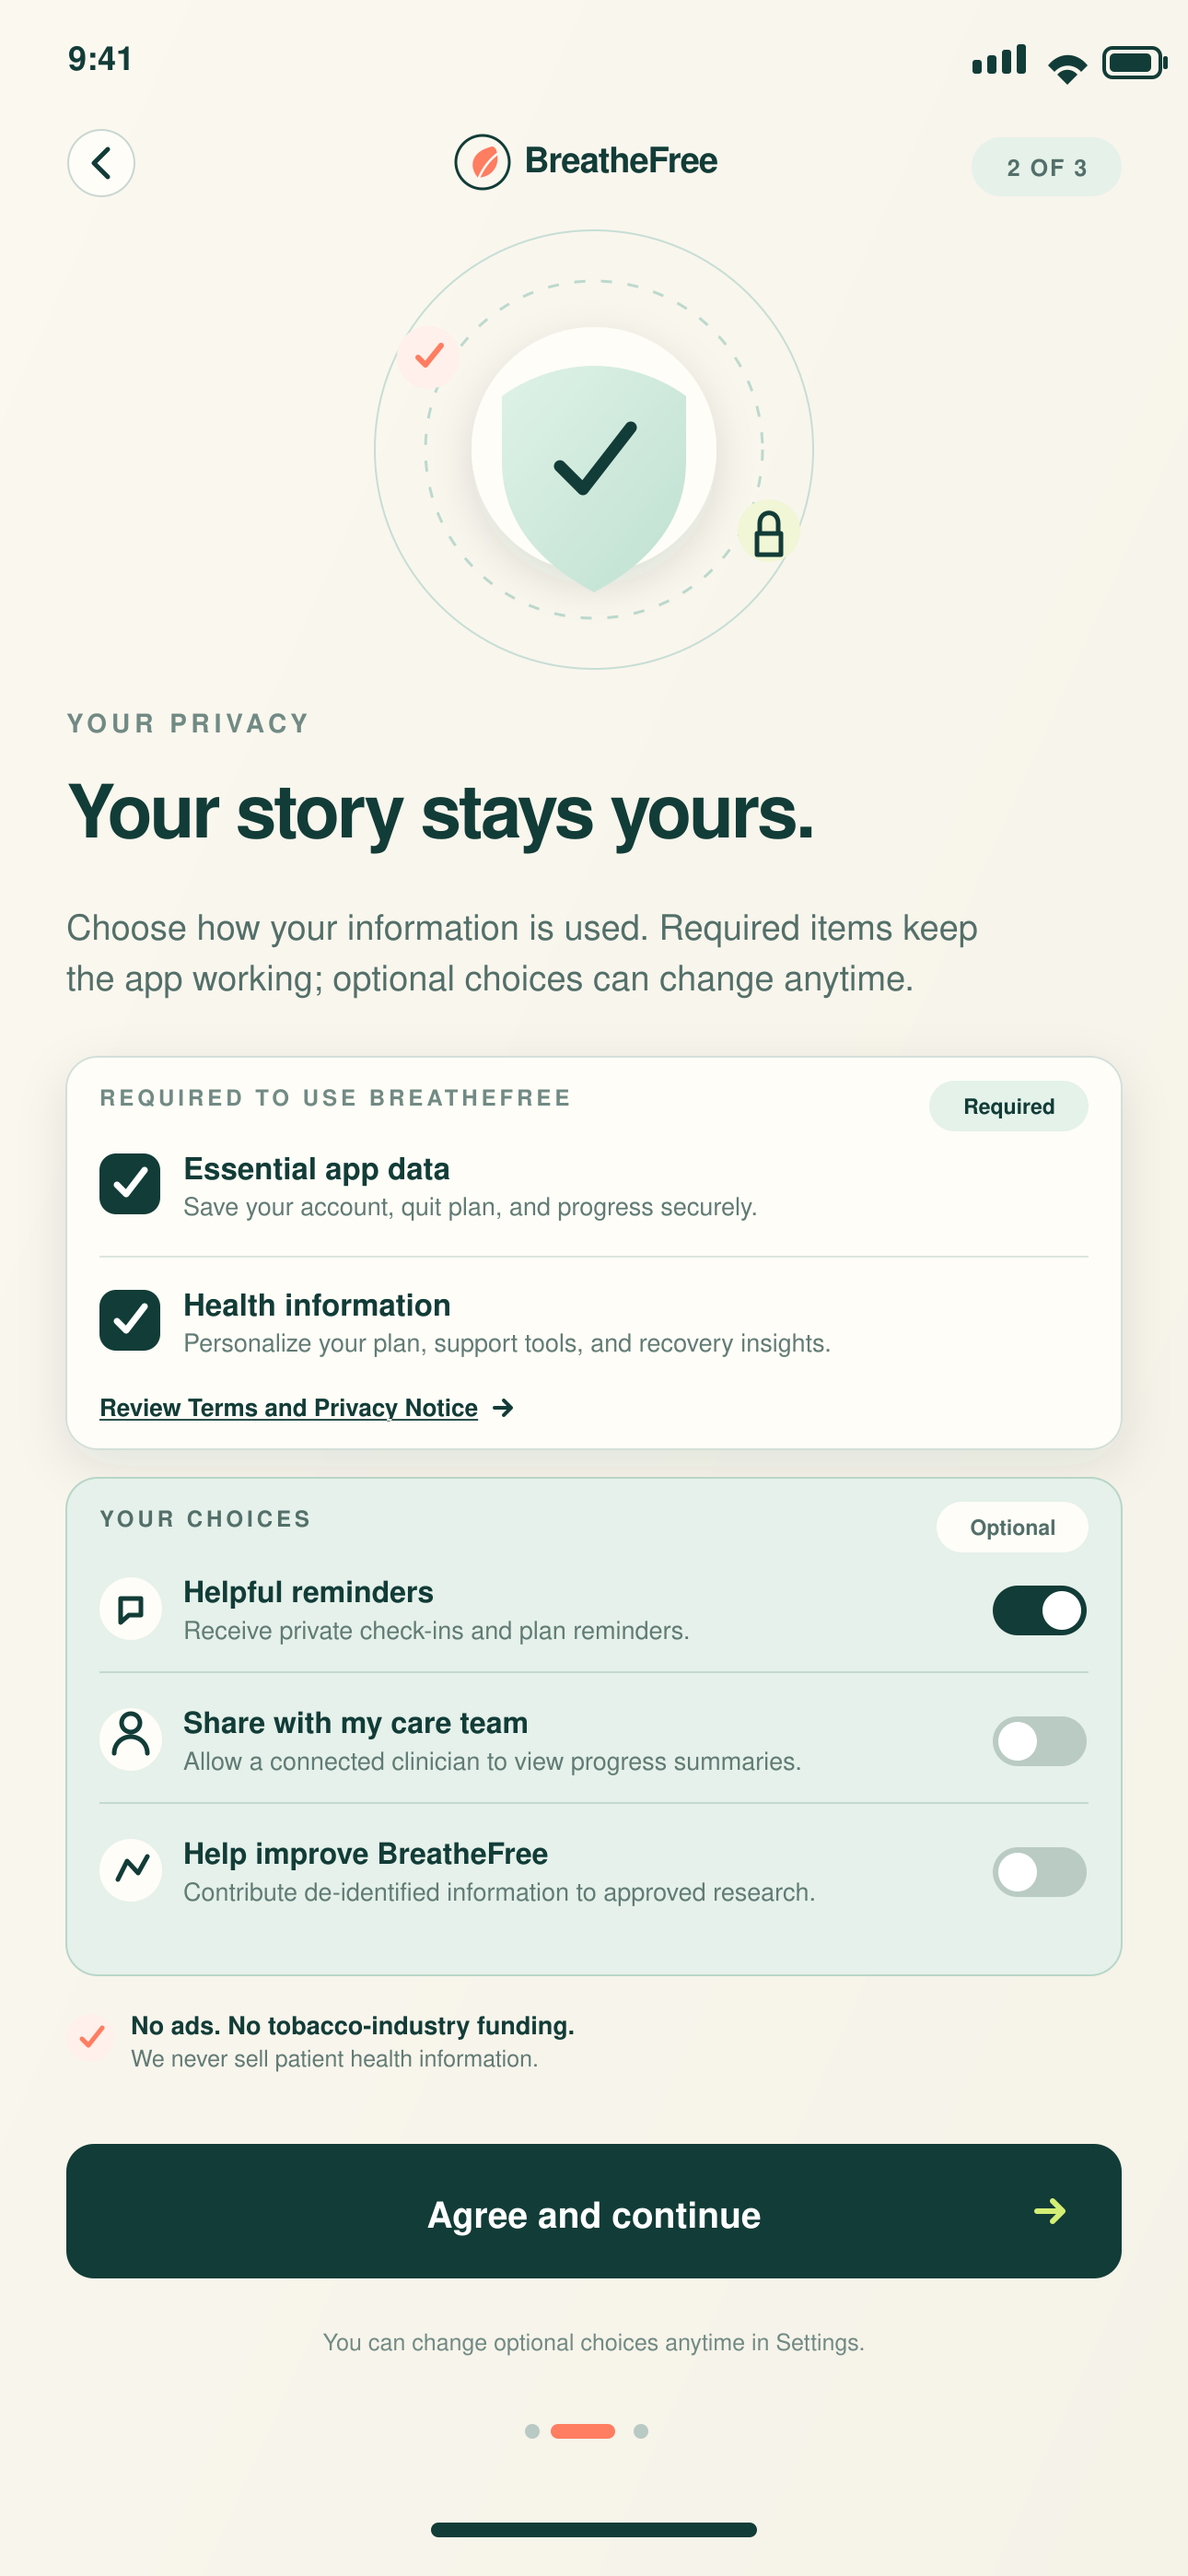
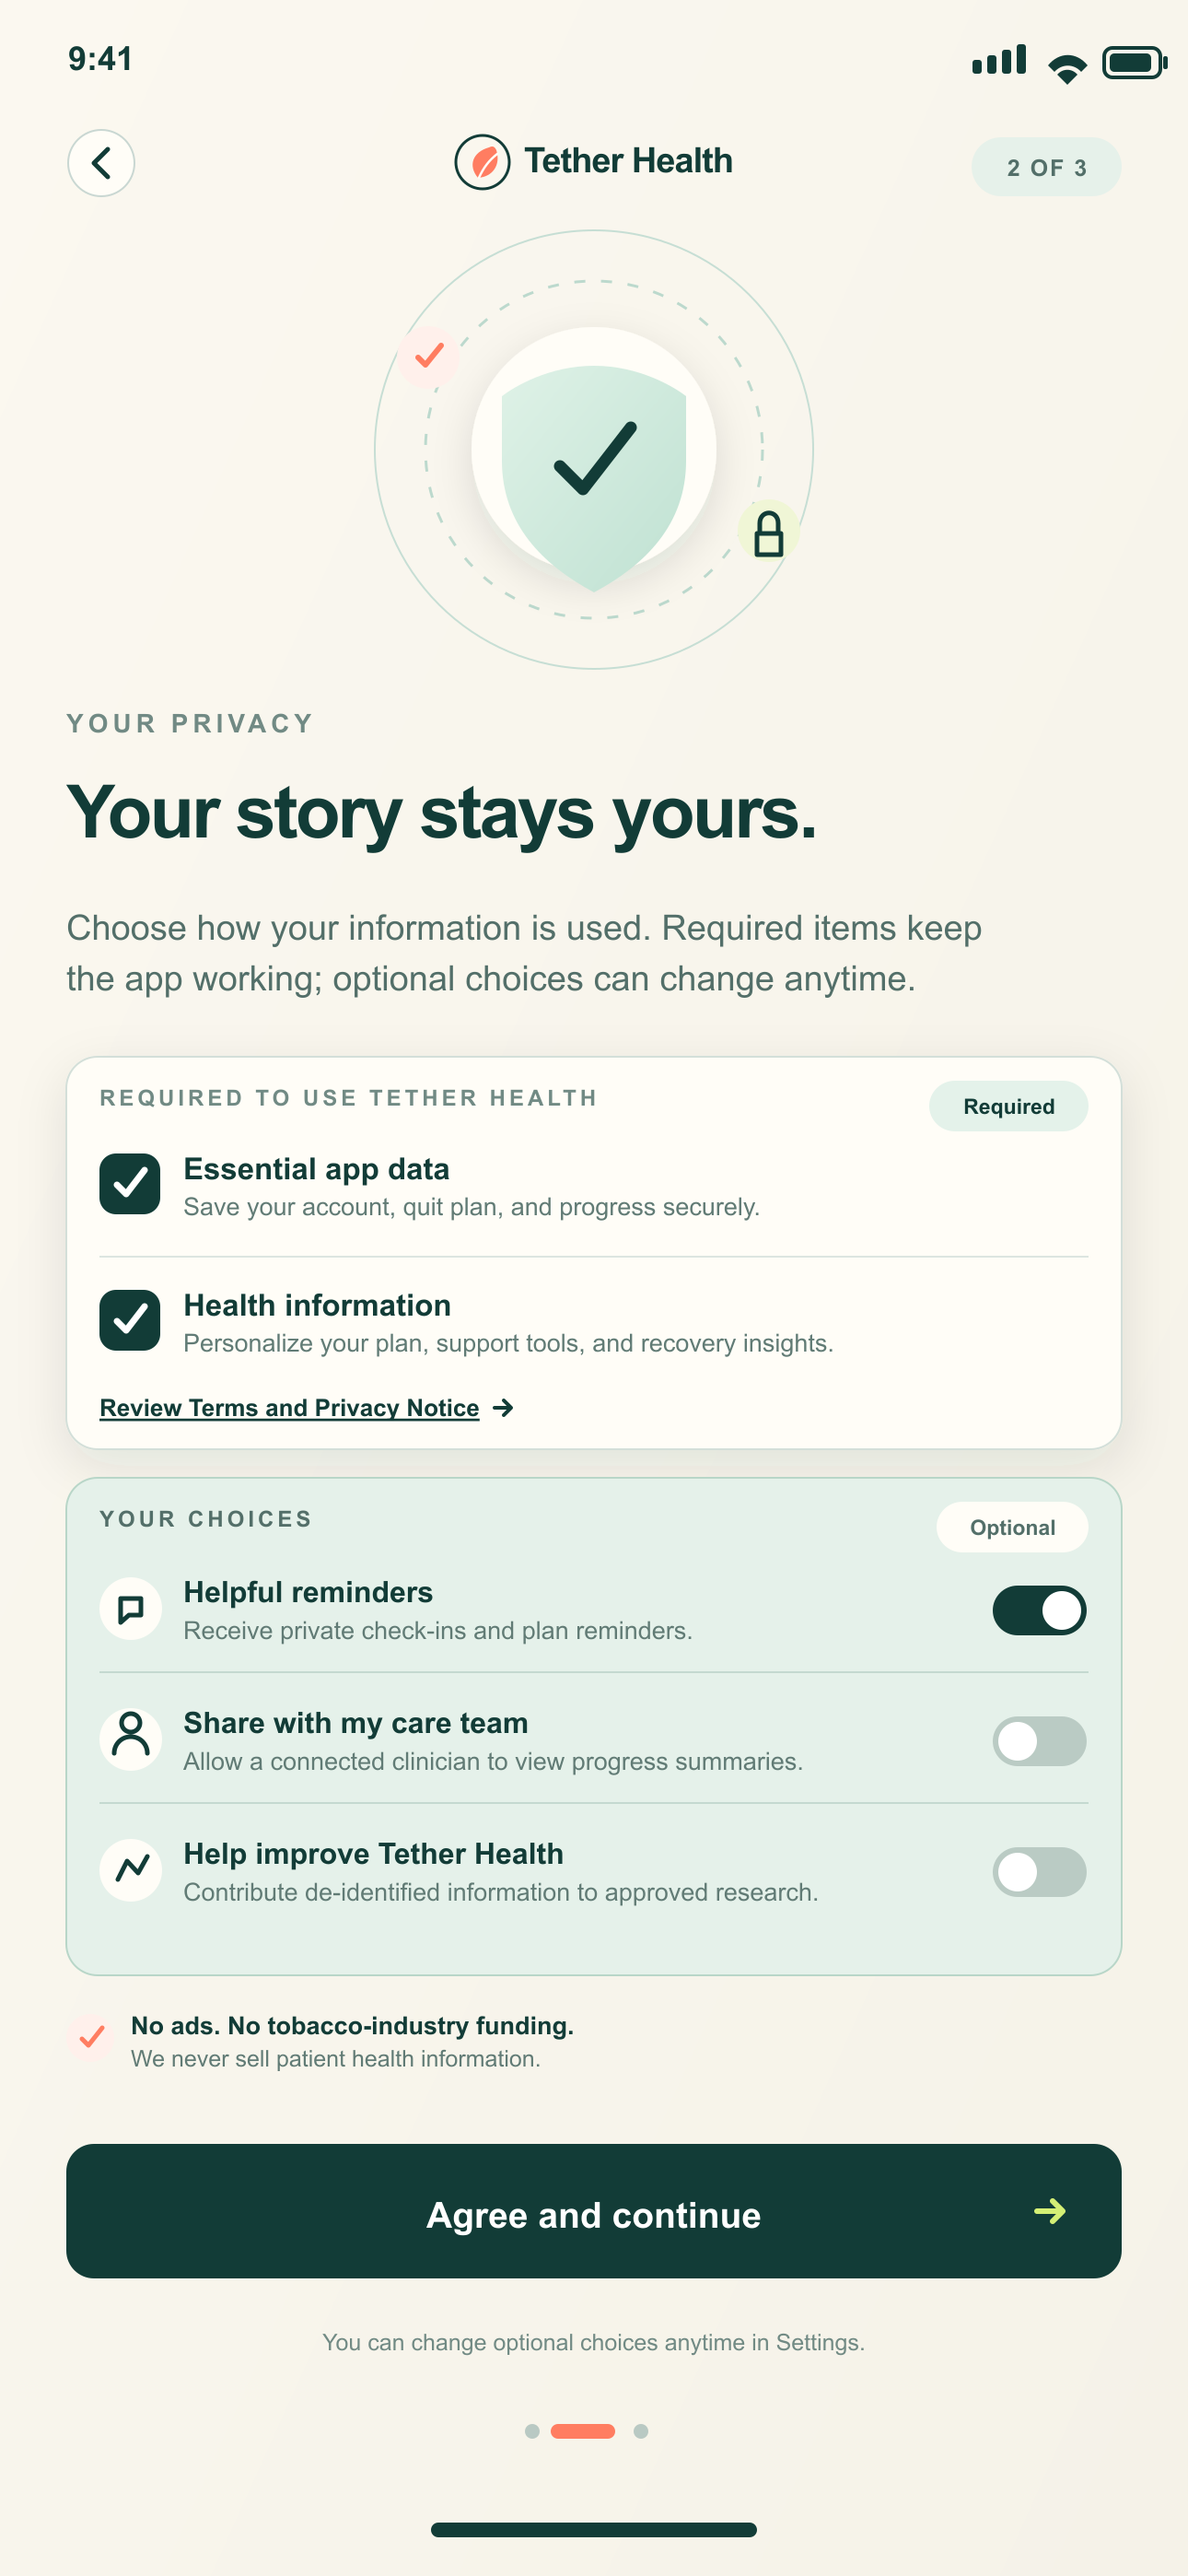
feat(site): mirror the Tether Health artwork rename
The mobile app is now Tether Health, and 8 of the 28 approved screens were
re-cut to say so. This repository ships its own copy of that artwork, and its
screens.ts mirrors the app's canonical catalog, so both move together or the
site shows a screen the app no longer has.

Synced: the 8 re-exported PNGs, and screen 2's slug, title and description
(why-breathefree -> why-tether-health).

Not changed: BreatheFree is still the name of the tobacco programme everywhere
on this site. Whether the public product name follows the app is a marketing
decision with a live URL attached — /breathefree/ is in the sitemap and in
REQUIRED_PAGES — so it is not something to fold into an asset sync.

diff --git a/project/src/data/screens.ts b/project/src/data/screens.ts
@@ -99,17 +99,17 @@ export const screens: Screen[] = [
     number: 1,
     title: "Welcome",
     description:
-      "Introduces BreatheFree, language choice and the private, judgment-free promise.",
+      "Introduces Tether Health, language choice and the private, judgment-free promise.",
     phase: "welcome",
     slug: "welcome",
   },
   {
     number: 2,
-    title: "Why BreatheFree",
+    title: "Why Tether Health",
     description:
       "Explains how the app supports cravings, planning and progress.",
     phase: "onboarding",
-    slug: "why-breathefree",
+    slug: "why-tether-health",
   },
   {
     number: 3,
